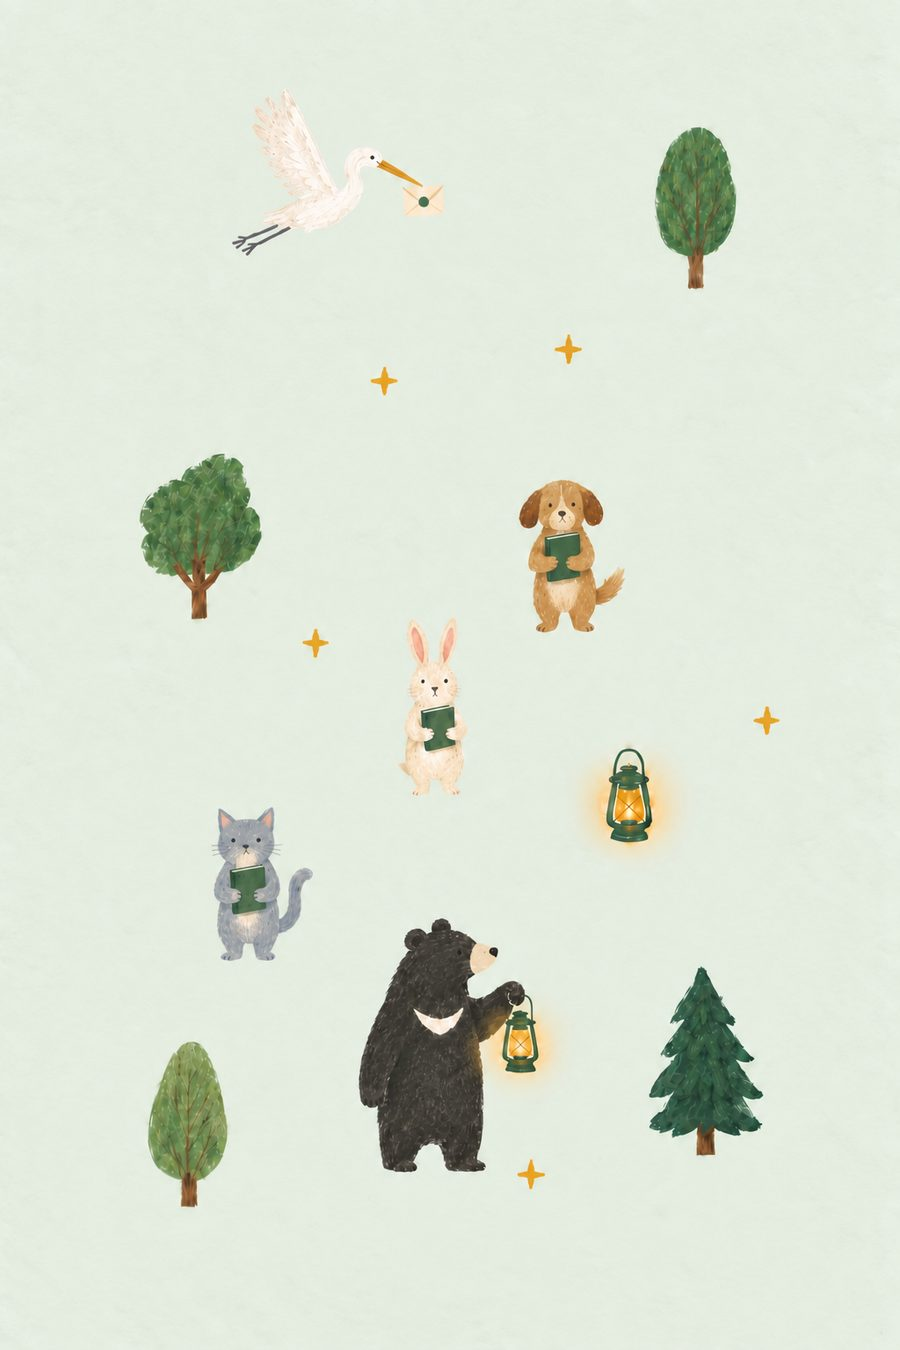
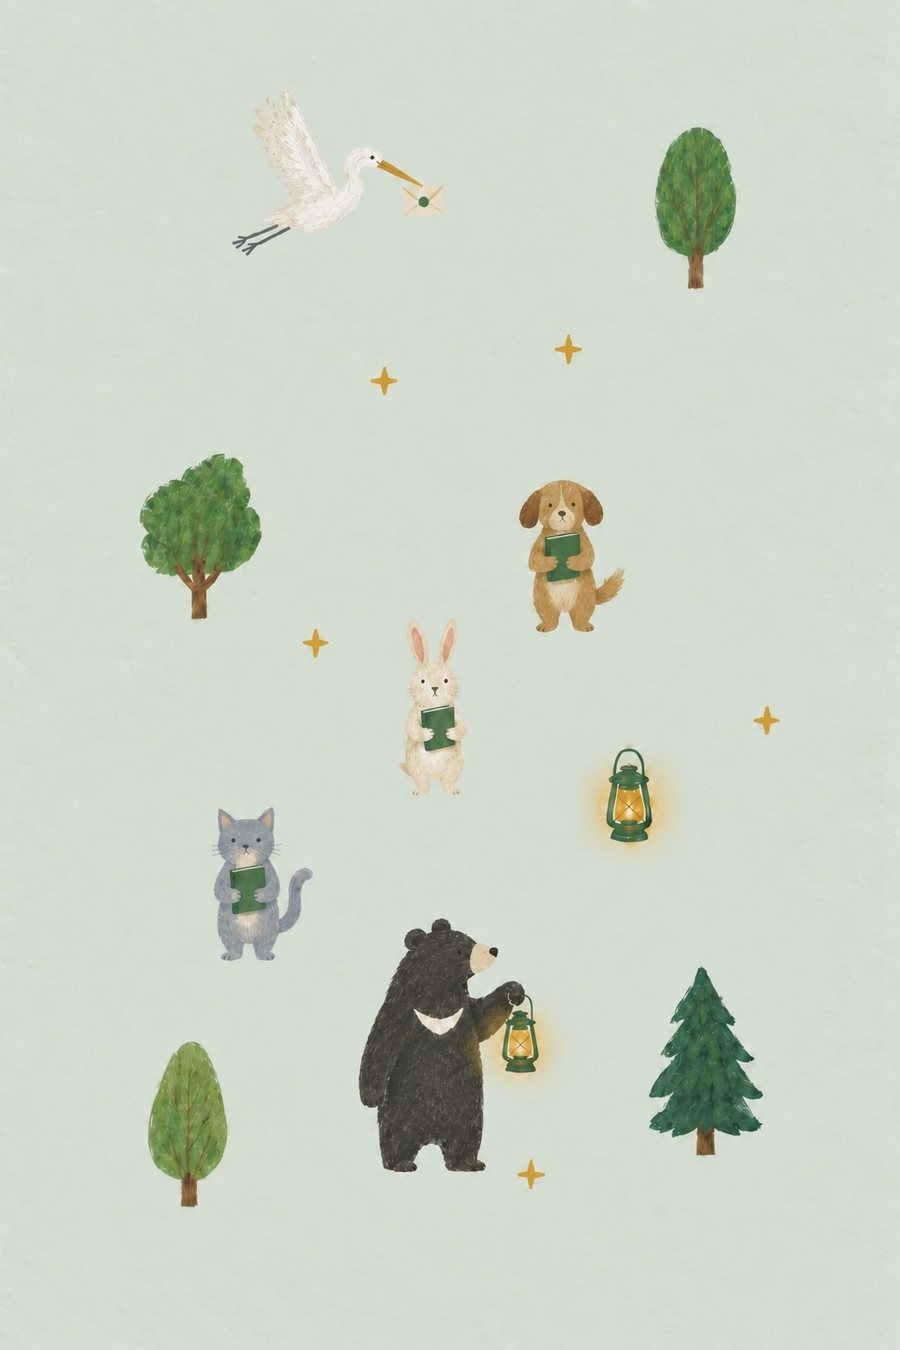
feat: 최종 일러스트로 로그인·온보딩·회원가입·404·로딩·배지 장면 그림 전면 교체
Claude-Session: https://claude.ai/code/session_01BZsYGgJgCZUFJFReJtTQWH

diff --git a/components/scene-banner.tsx b/components/scene-banner.tsx
@@ -5,7 +5,12 @@ import Image from "next/image";
 export const SCENES = {
   forest: { src: "/illustrations/forest-path.jpg", position: "center 62%", bg: "var(--point-deep)" },
   "forest-reading": { src: "/illustrations/forest-reading.jpg", position: "center 68%", bg: "var(--point-deep)" },
-  parade: { src: "/illustrations/parade.jpg", position: "center 72%", bg: "#DCE6D3" },
+  // 나무 사이로 동물들이 책을 안고 고개를 내미는 밤 숲(세로 그림이라 가로
+  // 배너에서는 동물들이 모여 있는 아래쪽 띠만 보이게 초점을 잡음)
+  "forest-peek": { src: "/illustrations/forest-peek.jpg", position: "center 69%", bg: "var(--point-deep)" },
+  // 텐트 앞에 다섯 동물이 둘러앉아 책 읽는 밤 숲
+  camp: { src: "/illustrations/forest-camp.jpg", position: "center 71%", bg: "var(--point-deep)" },
+  parade: { src: "/illustrations/parade.jpg", position: "center 68%", bg: "#DCE6D3" },
   pattern: { src: "/illustrations/pattern.jpg", position: "center 12%", bg: "var(--paper)" },
 } as const;
 

diff --git a/app/onboarding/page.tsx b/app/onboarding/page.tsx
@@ -1,7 +1,7 @@
 "use client";
 
 import { useState } from "react";
-import ForestBanner from "@/components/forest-banner";
+import SceneBanner from "@/components/scene-banner";
 import Link from "next/link";
 import { useRouter } from "next/navigation";
 import { createClient } from "@/lib/supabase/client";
@@ -172,7 +172,7 @@ export default function OnboardingPage() {
         <SignOutButton />
       </div>
 
-      {step === "role" && <div className="mt-5"><ForestBanner height={140} /></div>}
+      {step === "role" && <div className="mt-5"><SceneBanner scene="camp" height={160} /></div>}
 
       {step === "role" && (
         <div className="mt-8 flex flex-col gap-4">

diff --git a/app/(auth)/login/page.tsx b/app/(auth)/login/page.tsx
@@ -42,7 +42,7 @@ function LoginForm() {
 
   return (
     <div className="mx-auto flex max-w-[420px] flex-col px-6 pt-10">
-      <SceneBanner scene="forest-reading" height={170} />
+      <SceneBanner scene="forest-peek" height={200} />
       <h1 className="d mt-6 text-2xl">책숲</h1>
       <p className="mt-1 text-sm" style={{ color: "var(--ink-2)" }}>
         이메일로 로그인하세요.
